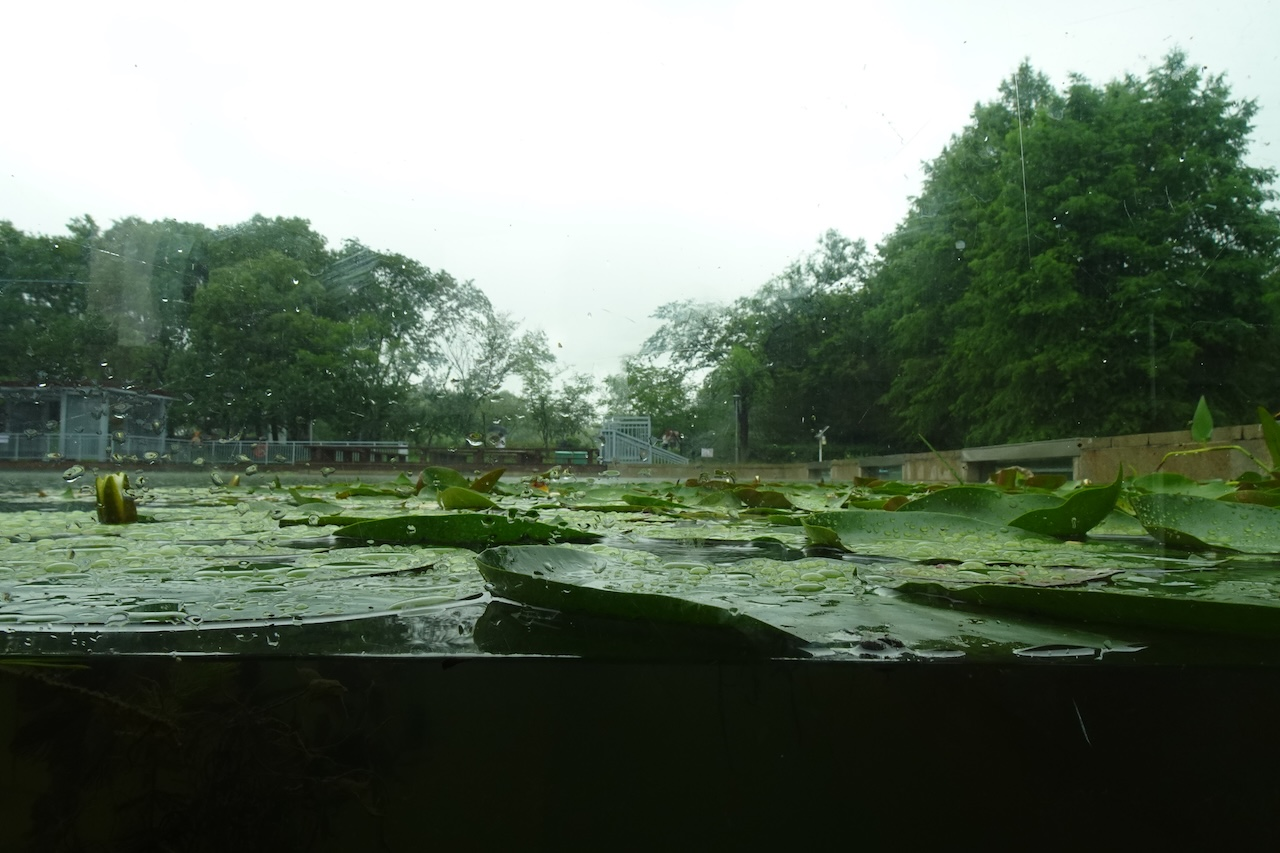
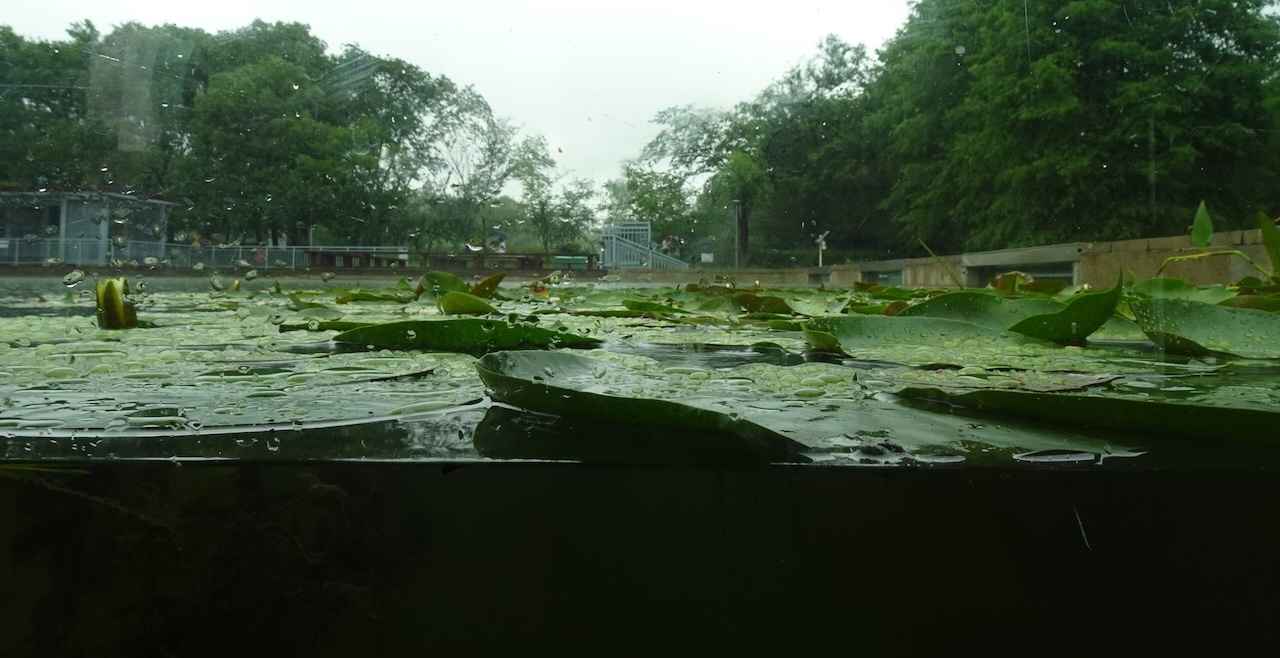
new fit

diff --git a/docs/gallery.html b/docs/gallery.html
@@ -7,7 +7,7 @@
 <meta name="viewport" content="width=device-width, initial-scale=1.0, user-scalable=yes">
 
 
-<title>影集｜Gallery – raven’s nest</title>
+<title>影集 – raven’s nest</title>
 <style>
 code{white-space: pre-wrap;}
 span.smallcaps{font-variant: small-caps;}
@@ -79,7 +79,7 @@ gtag('config', 'G-XJSP4R93HW', { 'anonymize_ip': true});
 </script>
 
 
-<meta property="og:title" content="影集｜Gallery – raven’s nest">
+<meta property="og:title" content="影集 – raven’s nest">
 <meta property="og:description" content="Raven’s Nest, a personal blog">
 <meta property="og:image" content="https://yyraven.github.io/quarto-blog/figs/preview.png">
 <meta property="og:site_name" content="raven's nest">
@@ -145,7 +145,7 @@ gtag('config', 'G-XJSP4R93HW', { 'anonymize_ip': true});
 
 <header id="title-block-header" class="quarto-title-block default">
 <div class="quarto-title">
-<h1 class="title">影集｜Gallery</h1>
+<h1 class="title">影集</h1>
 </div>
 
 
@@ -621,7 +621,7 @@ window.document.addEventListener("DOMContentLoaded", function (event) {
 });
 </script>
 </div> <!-- /content -->
-<script>var lightboxQuarto = GLightbox({"descPosition":"bottom","openEffect":"zoom","loop":false,"closeEffect":"zoom","selector":".lightbox"});
+<script>var lightboxQuarto = GLightbox({"selector":".lightbox","closeEffect":"zoom","loop":false,"descPosition":"bottom","openEffect":"zoom"});
 (function() {
   let previousOnload = window.onload;
   window.onload = () => {

diff --git a/docs/archive.html b/docs/archive.html
@@ -7,7 +7,7 @@
 <meta name="viewport" content="width=device-width, initial-scale=1.0, user-scalable=yes">
 
 
-<title>全部｜Archive – raven’s nest</title>
+<title>全部 – raven’s nest</title>
 <style>
 code{white-space: pre-wrap;}
 span.smallcaps{font-variant: small-caps;}
@@ -137,7 +137,7 @@ window.Quarto = {
 };
 </script>
 
-<meta property="og:title" content="全部｜Archive – raven’s nest">
+<meta property="og:title" content="全部 – raven’s nest">
 <meta property="og:image" content="https://yyraven.github.io/quarto-blog/figs/preview.png">
 <meta property="og:site_name" content="raven's nest">
 <meta property="og:image:height" content="480">
@@ -202,7 +202,7 @@ window.Quarto = {
 
 <header id="title-block-header" class="quarto-title-block default">
 <div class="quarto-title">
-<h1 class="title">全部｜Archive</h1>
+<h1 class="title">全部</h1>
 </div>
 
 

diff --git a/docs/log.html b/docs/log.html
@@ -7,7 +7,7 @@
 <meta name="viewport" content="width=device-width, initial-scale=1.0, user-scalable=yes">
 
 
-<title>更新日志｜Change Log – raven’s nest</title>
+<title>更新日志 – raven’s nest</title>
 <style>
 code{white-space: pre-wrap;}
 span.smallcaps{font-variant: small-caps;}
@@ -76,7 +76,7 @@ gtag('config', 'G-XJSP4R93HW', { 'anonymize_ip': true});
 </script>
 
 
-<meta property="og:title" content="更新日志｜Change Log – raven’s nest">
+<meta property="og:title" content="更新日志 – raven’s nest">
 <meta property="og:description" content="Raven’s Nest, a personal blog">
 <meta property="og:image" content="https://yyraven.github.io/quarto-blog/figs/preview.png">
 <meta property="og:site_name" content="raven's nest">
@@ -140,7 +140,7 @@ gtag('config', 'G-XJSP4R93HW', { 'anonymize_ip': true});
 
 <header id="title-block-header" class="quarto-title-block default">
 <div class="quarto-title">
-<h1 class="title">更新日志｜Change Log</h1>
+<h1 class="title">更新日志</h1>
 </div>
 
 

diff --git a/docs/personal.html b/docs/personal.html
@@ -7,7 +7,7 @@
 <meta name="viewport" content="width=device-width, initial-scale=1.0, user-scalable=yes">
 
 
-<title>个人｜Personal – raven’s nest</title>
+<title>个人 – raven’s nest</title>
 <style>
 code{white-space: pre-wrap;}
 span.smallcaps{font-variant: small-caps;}
@@ -136,7 +136,7 @@ window.Quarto = {
 };
 </script>
 
-<meta property="og:title" content="个人｜Personal – raven’s nest">
+<meta property="og:title" content="个人 – raven’s nest">
 <meta property="og:image" content="https://yyraven.github.io/quarto-blog/personal/260304_radio/covers/chenli.jpeg">
 <meta property="og:site_name" content="raven's nest">
 </head>
@@ -199,7 +199,7 @@ window.Quarto = {
 
 <header id="title-block-header" class="quarto-title-block default">
 <div class="quarto-title">
-<h1 class="title">个人｜Personal</h1>
+<h1 class="title">个人</h1>
 </div>
 
 

diff --git a/docs/work.html b/docs/work.html
@@ -7,7 +7,7 @@
 <meta name="viewport" content="width=device-width, initial-scale=1.0, user-scalable=yes">
 
 
-<title>作品｜Work – raven’s nest</title>
+<title>作品 – raven’s nest</title>
 <style>
 code{white-space: pre-wrap;}
 span.smallcaps{font-variant: small-caps;}
@@ -136,7 +136,7 @@ window.Quarto = {
 };
 </script>
 
-<meta property="og:title" content="作品｜Work – raven’s nest">
+<meta property="og:title" content="作品 – raven’s nest">
 <meta property="og:image" content="https://yyraven.github.io/quarto-blog/work/260129_resources_theme_MYnature/preview.jpeg">
 <meta property="og:site_name" content="raven's nest">
 </head>
@@ -199,7 +199,7 @@ window.Quarto = {
 
 <header id="title-block-header" class="quarto-title-block default">
 <div class="quarto-title">
-<h1 class="title">作品｜Work</h1>
+<h1 class="title">作品</h1>
 </div>
 
 

diff --git a/docs/personal/240120_review_ride/index.html b/docs/personal/240120_review_ride/index.html
@@ -880,7 +880,7 @@ window.document.addEventListener("DOMContentLoaded", function (event) {
 </nav>
 </div> <!-- /content -->
 <script src="../../scripts/mylikebutton.js"></script>
-<script>var lightboxQuarto = GLightbox({"loop":false,"descPosition":"bottom","openEffect":"zoom","selector":".lightbox","closeEffect":"zoom"});
+<script>var lightboxQuarto = GLightbox({"closeEffect":"zoom","openEffect":"zoom","descPosition":"bottom","selector":".lightbox","loop":false});
 (function() {
   let previousOnload = window.onload;
   window.onload = () => {

diff --git a/docs/personal/241214_radio/index.html b/docs/personal/241214_radio/index.html
@@ -979,7 +979,7 @@ window.document.addEventListener("DOMContentLoaded", function (event) {
 </nav>
 </div> <!-- /content -->
 <script src="../../scripts/mylikebutton.js"></script>
-<script>var lightboxQuarto = GLightbox({"openEffect":"zoom","closeEffect":"zoom","selector":".lightbox","descPosition":"bottom","loop":false});
+<script>var lightboxQuarto = GLightbox({"selector":".lightbox","descPosition":"bottom","openEffect":"zoom","closeEffect":"zoom","loop":false});
 (function() {
   let previousOnload = window.onload;
   window.onload = () => {

diff --git a/docs/personal/251231_radio/index.html b/docs/personal/251231_radio/index.html
@@ -1085,7 +1085,7 @@ window.document.addEventListener("DOMContentLoaded", function (event) {
 </nav>
 </div> <!-- /content -->
 <script src="../../scripts/mylikebutton.js"></script>
-<script>var lightboxQuarto = GLightbox({"descPosition":"bottom","loop":false,"openEffect":"zoom","closeEffect":"zoom","selector":".lightbox"});
+<script>var lightboxQuarto = GLightbox({"closeEffect":"zoom","openEffect":"zoom","selector":".lightbox","loop":false,"descPosition":"bottom"});
 (function() {
   let previousOnload = window.onload;
   window.onload = () => {

diff --git a/docs/personal/260112_birding_eaglecreek/index.html b/docs/personal/260112_birding_eaglecreek/index.html
@@ -909,7 +909,7 @@ window.document.addEventListener("DOMContentLoaded", function (event) {
 </nav>
 </div> <!-- /content -->
 <script src="../../scripts/mylikebutton.js"></script>
-<script>var lightboxQuarto = GLightbox({"loop":false,"selector":".lightbox","closeEffect":"zoom","descPosition":"bottom","openEffect":"zoom"});
+<script>var lightboxQuarto = GLightbox({"selector":".lightbox","loop":false,"openEffect":"zoom","closeEffect":"zoom","descPosition":"bottom"});
 (function() {
   let previousOnload = window.onload;
   window.onload = () => {

diff --git a/docs/personal/260117_travel_baltimore_music/index.html b/docs/personal/260117_travel_baltimore_music/index.html
@@ -1076,7 +1076,7 @@ window.document.addEventListener("DOMContentLoaded", function (event) {
 </nav>
 </div> <!-- /content -->
 <script src="../../scripts/mylikebutton.js"></script>
-<script>var lightboxQuarto = GLightbox({"selector":".lightbox","loop":false,"closeEffect":"zoom","descPosition":"bottom","openEffect":"zoom"});
+<script>var lightboxQuarto = GLightbox({"loop":false,"selector":".lightbox","descPosition":"bottom","openEffect":"zoom","closeEffect":"zoom"});
 (function() {
   let previousOnload = window.onload;
   window.onload = () => {

diff --git a/docs/personal/260124_travel_baltimore_railroad/index.html b/docs/personal/260124_travel_baltimore_railroad/index.html
@@ -1123,7 +1123,7 @@ window.document.addEventListener("DOMContentLoaded", function (event) {
 </nav>
 </div> <!-- /content -->
 <script src="../../scripts/mylikebutton.js"></script>
-<script>var lightboxQuarto = GLightbox({"selector":".lightbox","openEffect":"zoom","closeEffect":"zoom","descPosition":"bottom","loop":false});
+<script>var lightboxQuarto = GLightbox({"closeEffect":"zoom","loop":false,"openEffect":"zoom","selector":".lightbox","descPosition":"bottom"});
 (function() {
   let previousOnload = window.onload;
   window.onload = () => {

diff --git a/docs/personal/260304_radio/index.html b/docs/personal/260304_radio/index.html
@@ -908,7 +908,7 @@ window.document.addEventListener("DOMContentLoaded", function (event) {
 </nav>
 </div> <!-- /content -->
 <script src="../../scripts/mylikebutton.js"></script>
-<script>var lightboxQuarto = GLightbox({"openEffect":"zoom","selector":".lightbox","loop":false,"descPosition":"bottom","closeEffect":"zoom"});
+<script>var lightboxQuarto = GLightbox({"closeEffect":"zoom","loop":false,"selector":".lightbox","descPosition":"bottom","openEffect":"zoom"});
 (function() {
   let previousOnload = window.onload;
   window.onload = () => {